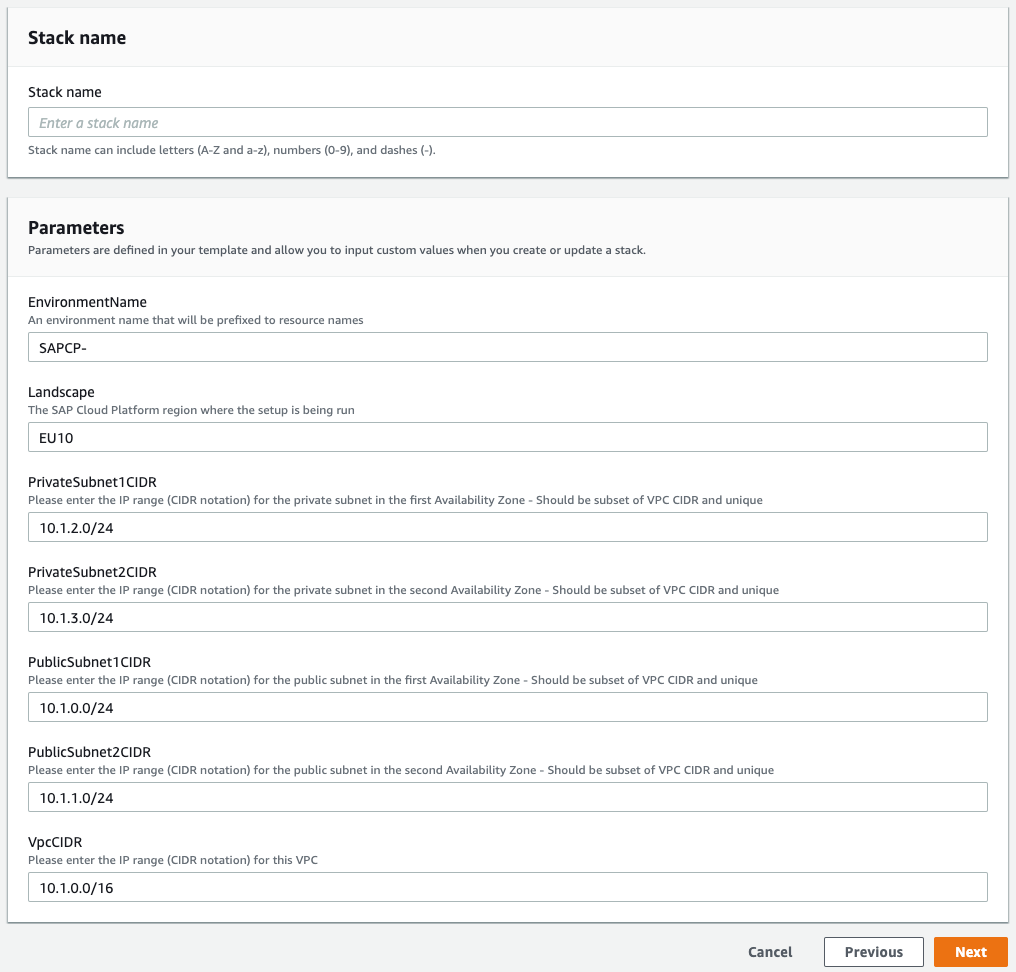
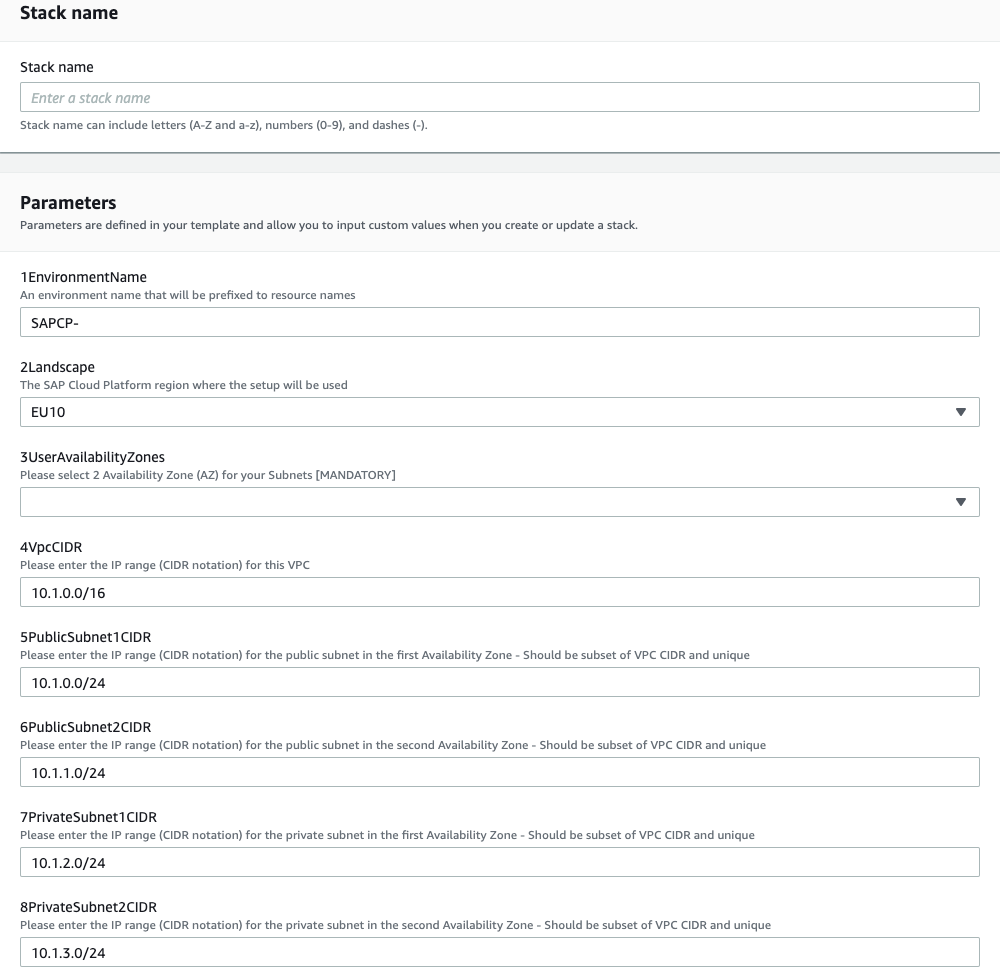
Parameters added and Readme fixed

Changed region(s): [[0.0, 0.0, 1.0, 1.0]]

diff --git a/AWS/Amazon-RDS-Setup/README.md b/AWS/Amazon-RDS-Setup/README.md
@@ -35,7 +35,7 @@ As the above manual procedure tends to be error-prone, we provide a [AWS CloudFo
 <img src="/AWS/Amazon-RDS-Setup/img/CreateStack.png">
 
 * Choose **Next**.
-* Enter a **Stack name** and fill in the **Parameters** as you feel necessary.Note that you choose the CIDR ranges so that they do not overlap with any other VPC in your account. 
+* Enter a **Stack name** and fill in the **Parameters** as you feel necessary. Choose ***any 2 Availability Zones (AZ) or choose 2 AZs of your choice***. Note that you choose the CIDR ranges so that they do not overlap with any other VPC in your account. 
 <img src="/AWS/Amazon-RDS-Setup/img/StackDetails.png">
 
 * Choose **Next**.
